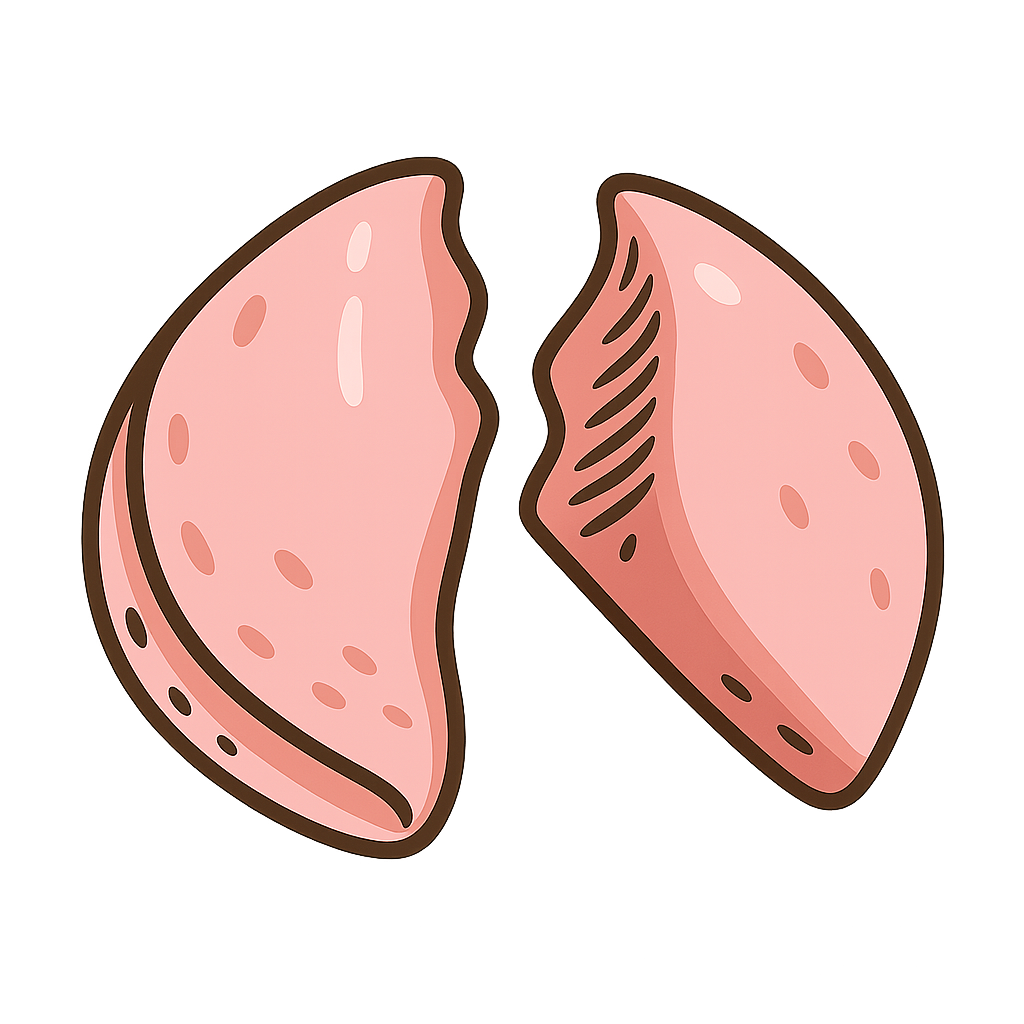
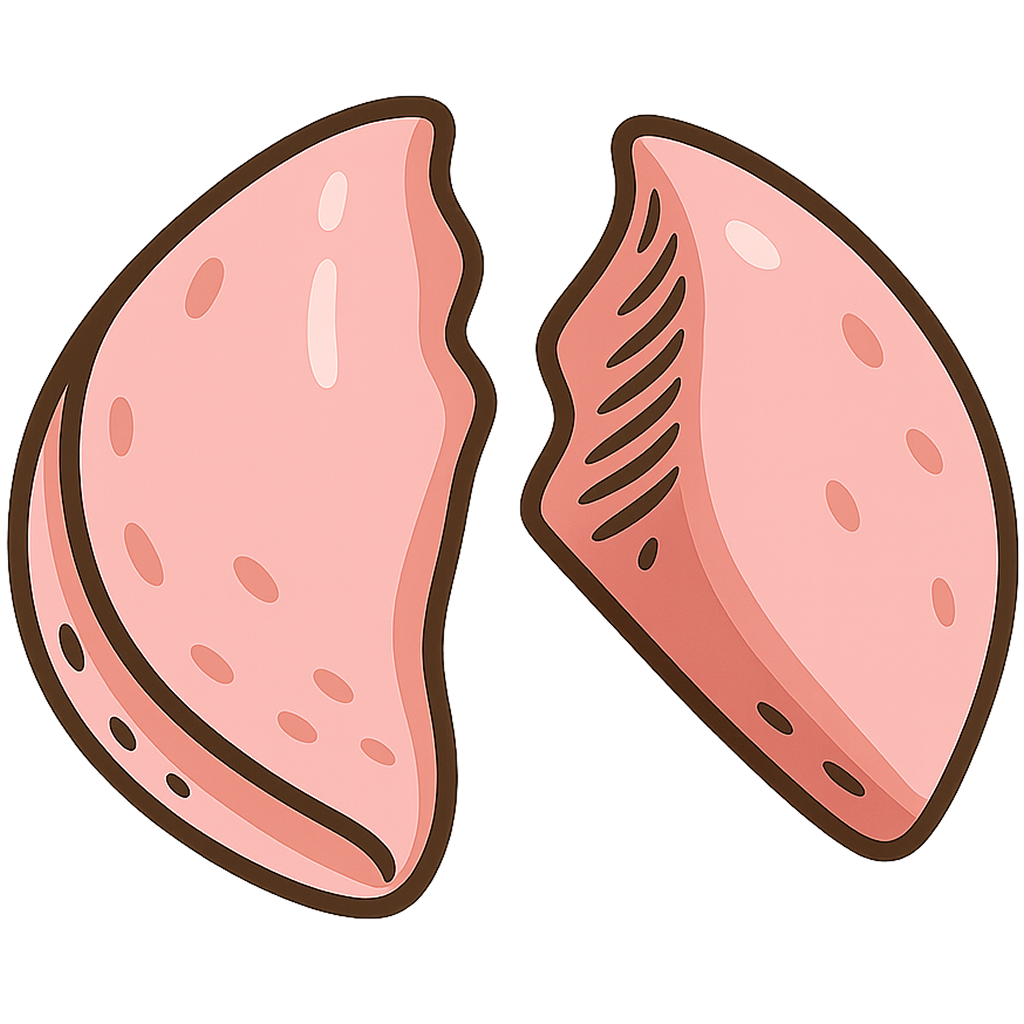
Chore: 리소스 변경

Changed region(s): [[0.0, 0.0938, 1.0, 0.9062], [0.7812, 0.3438, 0.8125, 0.375], [0.625, 0.625, 0.6562, 0.6562]]

diff --git a/lib/widgets/cookie_button_list.dart b/lib/widgets/cookie_button_list.dart
@@ -43,7 +43,7 @@ class _CookieButtonList extends State<CookieButtonList>{
         final index = entry.key;
         final btn = entry.value;
         final imgAsset = btn.isOpened
-            ? widget.cookieImageDataList[index].openCookie
+            ? widget.cookieImageDataList[index].crushCookie
             : widget.cookieImageDataList[index].trayCookie;
         return Positioned(
             top: btn.top,
